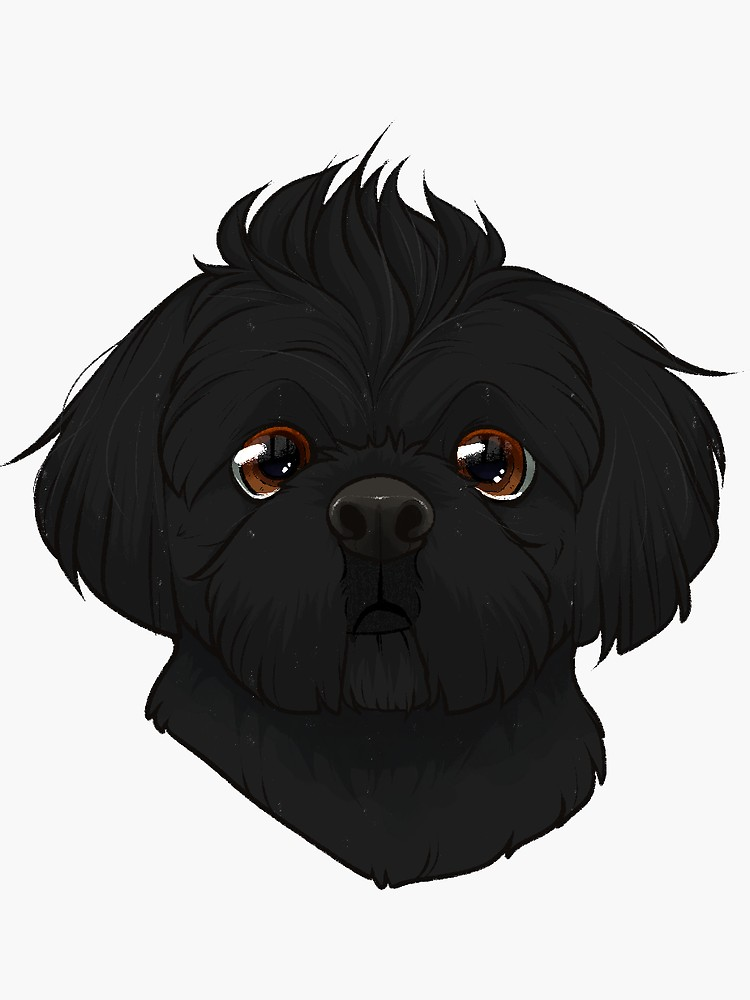
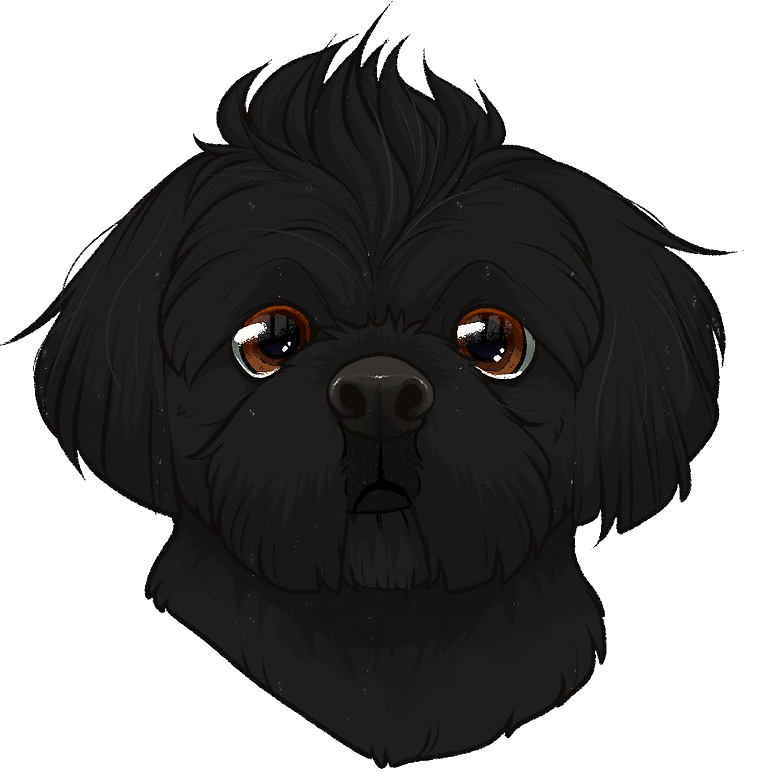
adicionei estilo da aplicação

diff --git a/clientes_webapp/src/Pages/Home/Home.module.css b/clientes_webapp/src/Pages/Home/Home.module.css
@@ -2,21 +2,8 @@
   font-family: Inter, Avenir, Helvetica, Arial, sans-serif;
   line-height: 24px;
   font-weight: 400;
-  font-synthesis: none;
-  text-rendering: optimizeLegibility;
-  -webkit-font-smoothing: antialiased;
-  -moz-osx-font-smoothing: grayscale;
-  -webkit-text-size-adjust: 100%;
   margin-left: 180px;
-}
-
-a {
-  font-weight: 500;
-  color: #646cff;
-  text-decoration: inherit;
-}
-a:hover {
-  color: #535bf2;
+  background-color: #f4f3ee;
 }
 
 h1 {
@@ -24,27 +11,10 @@ h1 {
   line-height: 1.1;
 }
 
-button {
-  border-radius: 8px;
-  border: 1px solid transparent;
-  padding: 0.6em 1.2em;
-  font-size: 1em;
-  font-weight: 500;
-  font-family: inherit;
-  cursor: pointer;
-  transition: border-color 0.25s;
-  background-color: #f9f9f9;
-}
-button:hover {
-  border-color: purple;
-}
-button:focus,
-button:focus-visible {
-  outline: 4px auto -webkit-focus-ring-color;
-}
-
-@media (prefers-color-scheme: light) {
-  a:hover {
-    color: #f9f9f9;
-  }
+.ShitzuImg {
+  max-width: 50%;
+  max-height: 100vh;
+  display: block;
+  margin-left: auto;
+  margin-right: auto;
 }

diff --git a/clientes_webapp/src/Components/BarraLateral/BarraLateral.module.css b/clientes_webapp/src/Components/BarraLateral/BarraLateral.module.css
@@ -5,21 +5,31 @@
     z-index: 1;
     top: 0;
     left: 0;
-    background-color: lightpink;
+    background-color: #252422;
     overflow-x: hidden;
     padding-top: 20px;
+    display: flex;
+    flex-direction: column;
+    align-items: center;
   }
+
+.BarraLateral h1 {
+  font-size: 40px;
+  color: #ef476f;
+}
   
-  .BarraLateral button {
-    width: 150px;
-    padding: 10px;
-    text-decoration: none;
-    font-size: medium;
-    color: #818181;
-    background-color: lightgreen;
-    display: block;
-  }
-  
-  .BarraLateral button:hover {
-    color: #f1f1f1;
-  }
+.BarraLateral button, p, .link {
+  padding: 6px;
+  text-decoration: none;
+  font-size: medium;
+  display: block;
+  color: #252422;
+  border-radius: 10px;
+  display: flex;
+  flex-direction: column;
+  text-align: center;
+}
+
+.link:hover {
+  color: #ef476f;
+}

diff --git a/clientes_webapp/src/Components/BarraLateral/BarraLateral.jsx b/clientes_webapp/src/Components/BarraLateral/BarraLateral.jsx
@@ -6,17 +6,13 @@ const BarraLateral = () => {
   return (
     <div>
         <nav className={S.BarraLateral}>
-            <h1>O que você quer fazer?</h1>
+            <h1>O que você quer fazer?</h1><br />
             <button>            
               <Link className={S.link} to='/Cadastro'>Cadastrar um cliente</Link>
             </button>
             <p>OU</p>
             <button>       
               <Link className={S.link} to='/ListaDeClientes'>Ver lista de clientes</Link>
-            </button>
-            <p>OU</p>
-            <button>
-              <Link className={S.link} to='/DadosCadastrais'>Ver dados do cliente</Link>     
             </button>
         </nav>
     </div>

diff --git a/clientes_webapp/src/Components/Header/Header.jsx b/clientes_webapp/src/Components/Header/Header.jsx
@@ -8,11 +8,10 @@ const Header = () => {
     <div className={S.container}>
         <nav>
             {/* navegar para cadastro */}
-            <Link className={S.link} to='/Cadastro'>
-                <img className={S.ShitzuImg} src={shitzu} alt="" />
+            <Link className={S.HomeBtn} to='/'>
+                {/* <img className={S.ShitzuImg} src={shitzu} alt="" /> */}
+                <h1>HOME</h1>
             </Link>
-            {/* navegar para home */}
-            <Link className={S.link} to='/'>Home</Link>
         </nav>
     </div>
   )

diff --git a/clientes_webapp/src/Components/Formulario/Formulario.module.css b/clientes_webapp/src/Components/Formulario/Formulario.module.css
@@ -1,4 +1,22 @@
 .Formulario {
+    display: flex;
+    justify-content: center;
+    margin: auto;
+}
+
+.Formulario button, input {
+    font-family: Inter, Avenir, Helvetica, Arial, sans-serif;
+    color: #ef476f;
+    padding: 10px;
+    border-radius: 10px;
+    background-color: #ffff;
+    font-weight: bold;
+}
+
+.Formulario button:hover {
+    cursor: pointer;
+    color: #252422;
+    background-color: #ef476f;
 }
 
 .Hidden {

diff --git a/clientes_webapp/src/Components/Header/Header.module.css b/clientes_webapp/src/Components/Header/Header.module.css
@@ -1,11 +1,18 @@
 .container {
-    background-color: lightsalmon;
+    background-color: #ef476f;
     width: 100%;
     height: 90px;
     margin: 0;
     display: flex;
     justify-content: center;
+    align-items: center;
 }
-.ShitzuImg{
-    max-height: 100%;
+
+.HomeBtn :hover{
+    color: #252422; 
+}
+
+.HomeBtn{
+    color: #f4f3ee;
+    text-decoration: none;
 }

diff --git a/clientes_webapp/src/Pages/Home/Home.jsx b/clientes_webapp/src/Pages/Home/Home.jsx
@@ -1,10 +1,11 @@
 import React from 'react'
 import S from './Home.module.css'
+import shitzu from '../../Components/Header/shitzu.png';
 
 const Home = () => {
   return (
     <div>
-      
+      <img className={S.ShitzuImg} src={shitzu} alt="" />
     </div>
   )
 }

diff --git a/clientes_webapp/src/Pages/Cadastro/Cadastro.module.css b/clientes_webapp/src/Pages/Cadastro/Cadastro.module.css
@@ -1,3 +1,3 @@
 .Cadastro {
-    background-color: lightskyblue;
+    background-color: #f4f3ee;
 }
